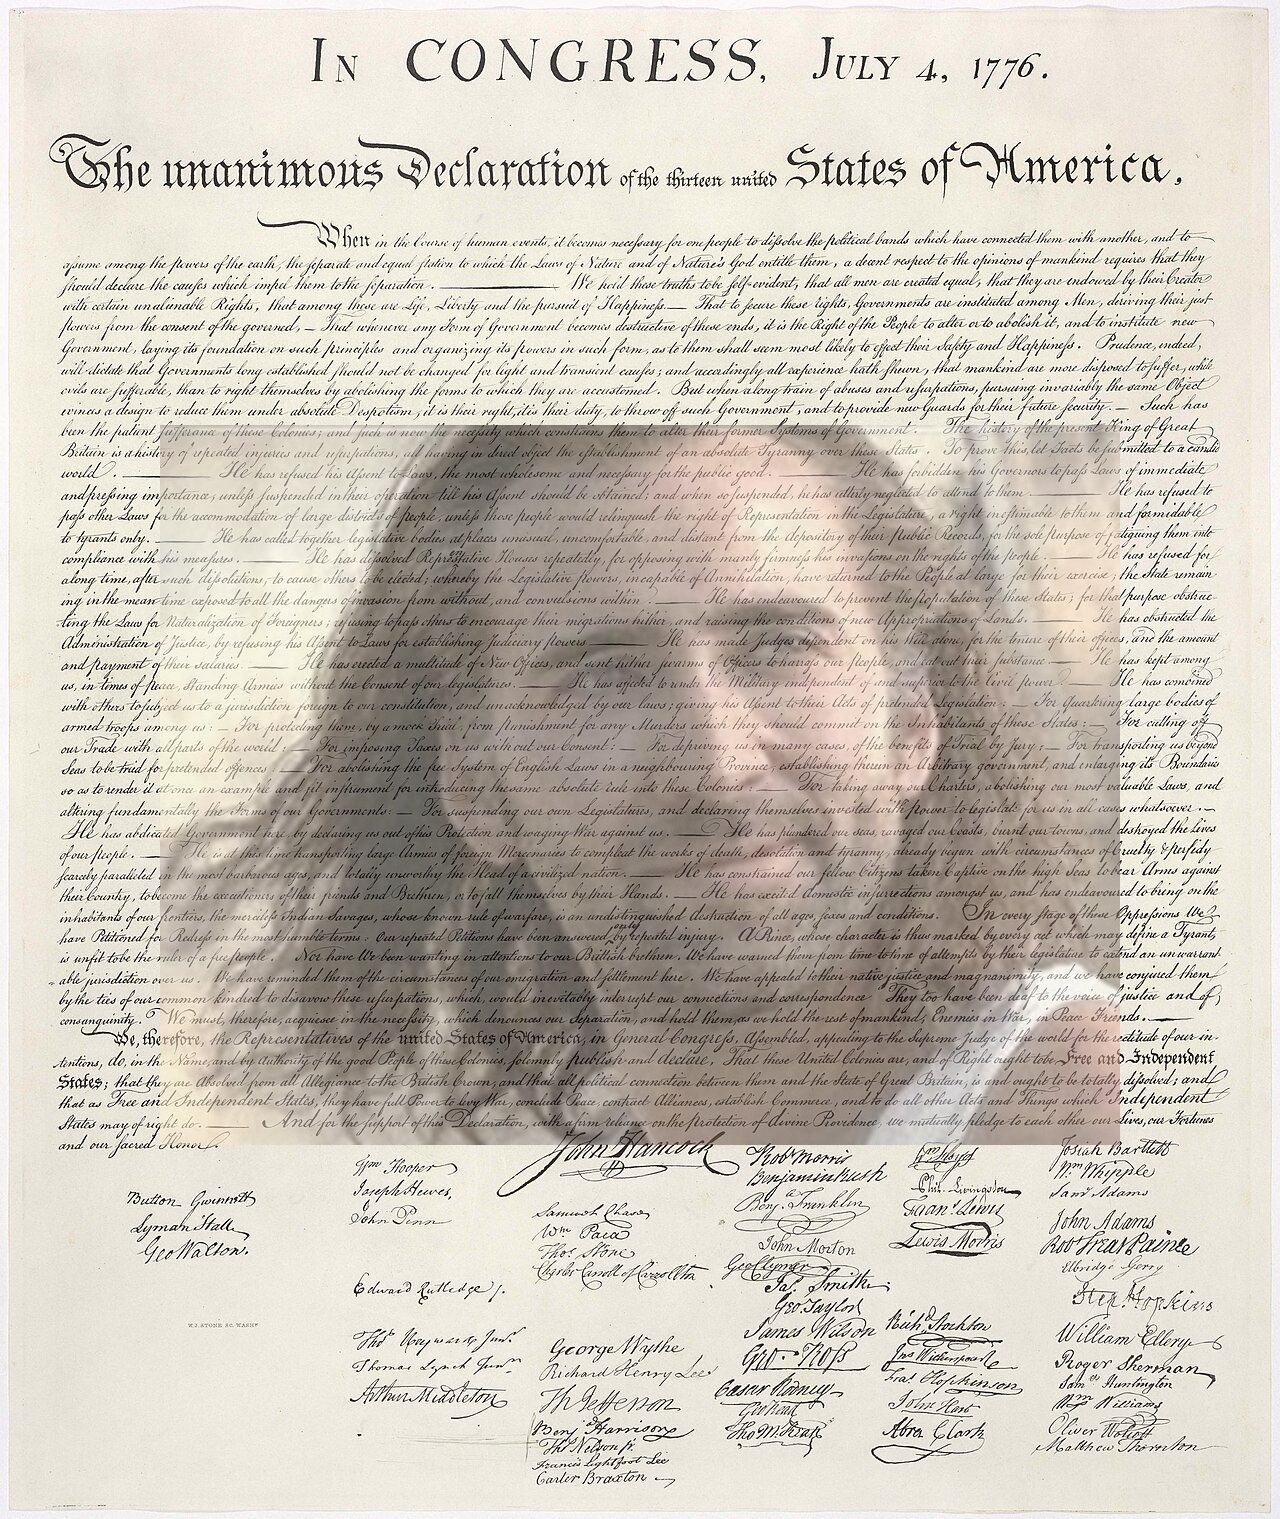
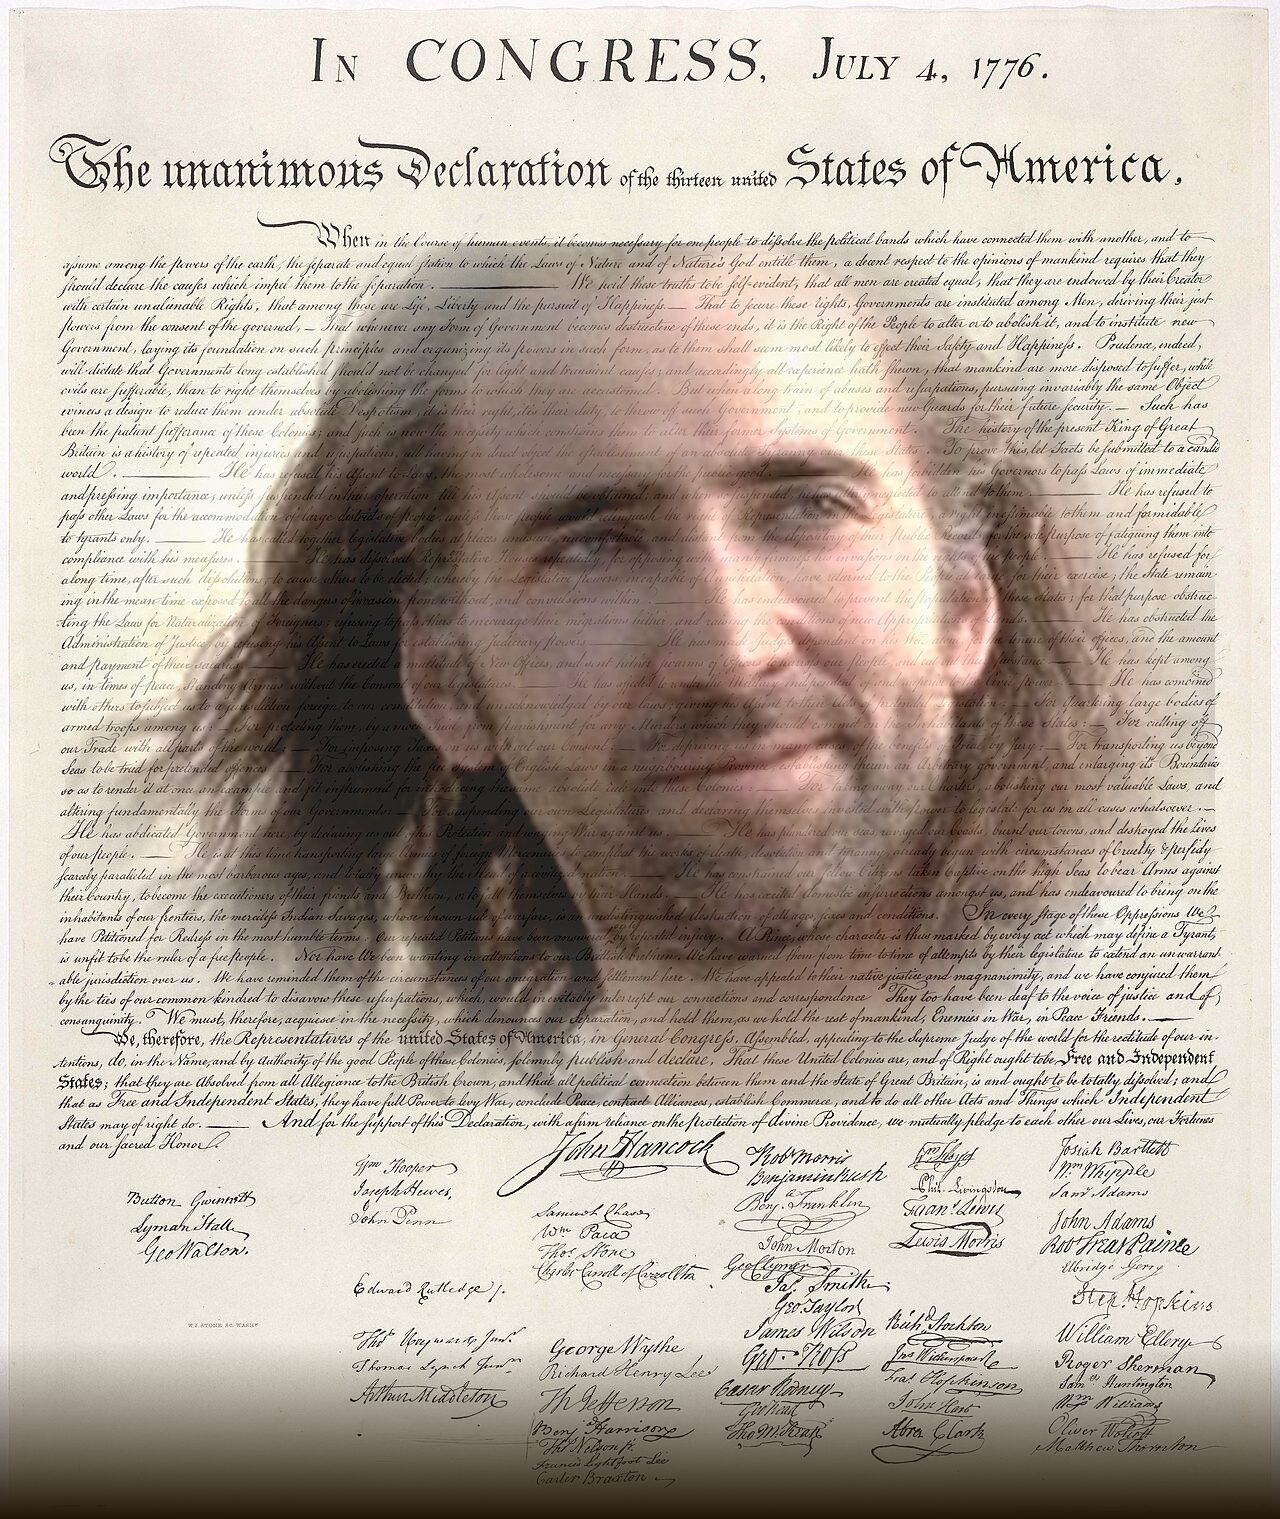
style(theme): browser-verified polish for Nic Cage theme
Rodney inspection rounds surfaced: Cage layer needed a feathered
elliptical mask (no paste seam), higher opacity and contrast to survive
the dimming gradient, and a bottom fade into the base color so the fixed
background never ends in a hard edge on tall viewports. CSS: full-width
background sizing instead of cover (no side crop), near-opaque title
plate, parchment/gold/sepia slice fills overriding the tie-dye gradients
hardcoded in wheel.html, populate-form styling, softer panel glow,
brighter placeholders and disabled battle buttons.

diff --git a/static/css/cage.css b/static/css/cage.css
@@ -21,8 +21,8 @@
 }
 
 @keyframes seal-glow {
-    0%, 100% { box-shadow: 0 0 15px rgba(201, 162, 39, 0.3); }
-    50% { box-shadow: 0 0 30px rgba(179, 36, 36, 0.45); }
+    0%, 100% { box-shadow: 0 0 12px rgba(201, 162, 39, 0.25); }
+    50% { box-shadow: 0 0 20px rgba(179, 36, 36, 0.25); }
 }
 
 @keyframes pulse {
@@ -75,8 +75,8 @@ body {
        dimmed by a sepia gradient so foreground text stays legible
        while both images remain visible. */
     background:
-        linear-gradient(rgba(26, 16, 5, 0.5), rgba(26, 16, 5, 0.68)),
-        url("/static/img/cage-declaration.jpg") center top / cover no-repeat fixed #221607;
+        linear-gradient(rgba(26, 16, 5, 0.32), rgba(26, 16, 5, 0.55)),
+        url("/static/img/cage-declaration.jpg") center top / 100% auto no-repeat fixed #221607;
     color: var(--parchment);
     font-family: Georgia, 'Palatino Linotype', 'Book Antiqua', serif;
     min-height: 100vh;
@@ -134,8 +134,12 @@ h1 {
     text-shadow:
         0 0 8px rgba(201, 162, 39, 0.6),
         2px 2px 0 rgba(34, 22, 7, 0.9);
+    /* Plate keeps the title from fighting the giant "IN CONGRESS"
+       lettering in the backdrop. */
+    background: rgba(34, 22, 7, 0.97);
+    border-radius: 8px;
+    padding: 10px 0 12px;
     border-bottom: 3px double var(--gold-leaf);
-    padding-bottom: 12px;
 }
 
 /* ===== Accent Text ===== */
@@ -199,8 +203,8 @@ h1 {
 .battle-btn:disabled,
 .battle-btn:disabled:hover {
     background: var(--panel-bg);
-    color: var(--parchment-aged);
-    border-color: rgba(201, 162, 39, 0.35);
+    color: var(--gold-leaf);
+    border-color: rgba(201, 162, 39, 0.6);
     box-shadow: none;
     cursor: not-allowed;
     transform: none;
@@ -248,9 +252,9 @@ h1 {
 .slot-placeholder {
     display: block;
     text-align: center;
-    color: var(--parchment-aged);
+    color: var(--parchment);
     font-style: italic;
-    opacity: 0.7;
+    opacity: 0.9;
     padding: 24px 0;
 }
 
@@ -351,6 +355,19 @@ h1 {
 .wheel-slice:nth-child(4n+2) { animation-delay: 1.5s; }
 .wheel-slice:nth-child(4n+3) { animation-delay: 3s; }
 .wheel-slice:nth-child(4n+4) { animation-delay: 4.5s; }
+
+/* Override the tie-dye gradient fills hardcoded in wheel.html with a
+   parchment/gold/sepia ramp. CSS `fill` beats the SVG presentation
+   attribute; nth-of-type counts only <path> siblings (slice <text>
+   labels interleave, so nth-child would miscount). */
+.wheel-slice:nth-of-type(8n+1) { fill: #d8c193; }
+.wheel-slice:nth-of-type(8n+2) { fill: #c9a227; }
+.wheel-slice:nth-of-type(8n+3) { fill: #8b5a2b; }
+.wheel-slice:nth-of-type(8n+4) { fill: #b32424; }
+.wheel-slice:nth-of-type(8n+5) { fill: #e0b93f; }
+.wheel-slice:nth-of-type(8n+6) { fill: #a0522d; }
+.wheel-slice:nth-of-type(8n+7) { fill: #f0e2c4; }
+.wheel-slice:nth-of-type(8n+8) { fill: #6b3a1e; }
 
 .wheel-slice:hover {
     opacity: 0.9;
@@ -505,5 +522,66 @@ footer p {
     text-align: center;
     color: var(--parchment-aged);
     font-style: italic;
-    opacity: 0.8;
+    text-shadow: 0 1px 3px rgba(0, 0, 0, 0.8);
+}
+
+/* ===== Populate Form ===== */
+
+.populate-form {
+    display: flex;
+    flex-direction: column;
+    gap: 0.5rem;
+    max-width: 400px;
+    margin: 1rem 0;
+    padding: 1rem;
+    background: var(--panel-bg);
+    border: 1px solid var(--gold-leaf);
+    border-radius: 8px;
+}
+
+.populate-form label {
+    color: var(--parchment-aged);
+    font-style: italic;
+    font-size: 0.9rem;
+}
+
+.populate-form textarea {
+    background: rgba(240, 226, 196, 0.9);
+    color: var(--ink-deep);
+    border: 1px solid var(--gold-leaf);
+    border-radius: 4px;
+    padding: 0.5rem;
+    font-size: 0.9rem;
+    font-family: Georgia, serif;
+    resize: vertical;
+    min-height: 80px;
+}
+
+.populate-form textarea:focus {
+    outline: none;
+    border-color: var(--gold-bright);
+    box-shadow: 0 0 8px rgba(224, 185, 63, 0.5);
+}
+
+.populate-form button {
+    align-self: flex-start;
+}
+
+/* Populate status — visible by default (no display:none) */
+.populate-status {
+    min-height: 1.5rem;
+    padding: 0.5rem;
+    border-radius: 4px;
+    font-size: 0.9rem;
+}
+
+.populate-status p {
+    margin: 0;
+}
+
+/* Error state — visually distinct from success */
+.populate-error {
+    color: var(--seal-red-bright);
+    background: rgba(139, 30, 30, 0.15);
+    border: 1px solid rgba(179, 36, 36, 0.4);
 }
